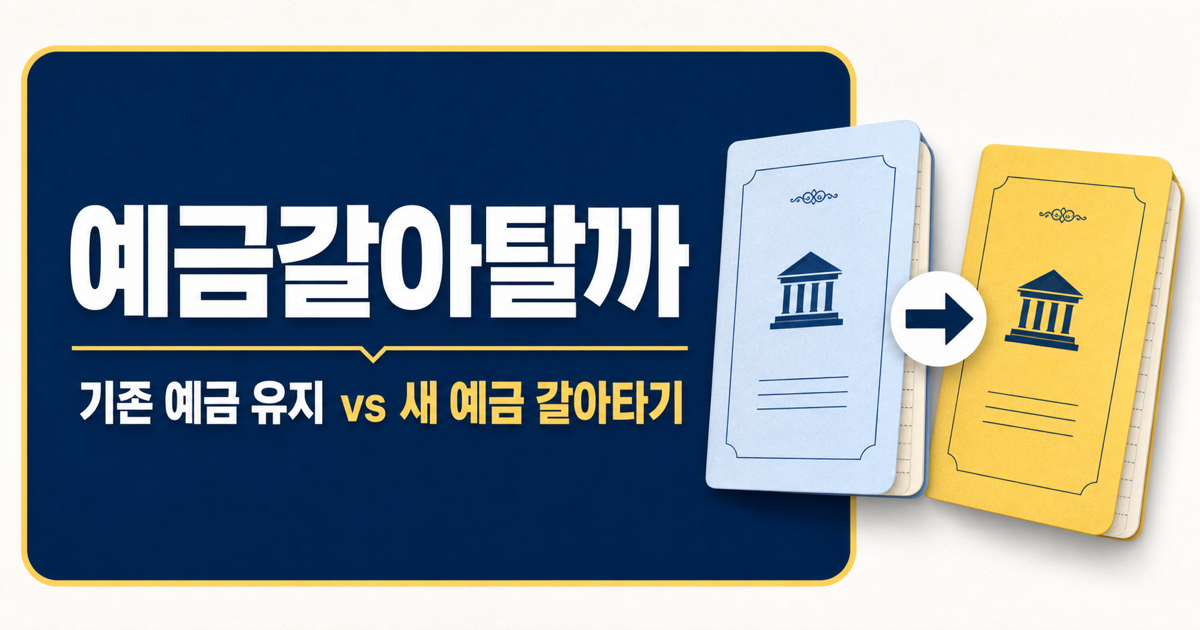
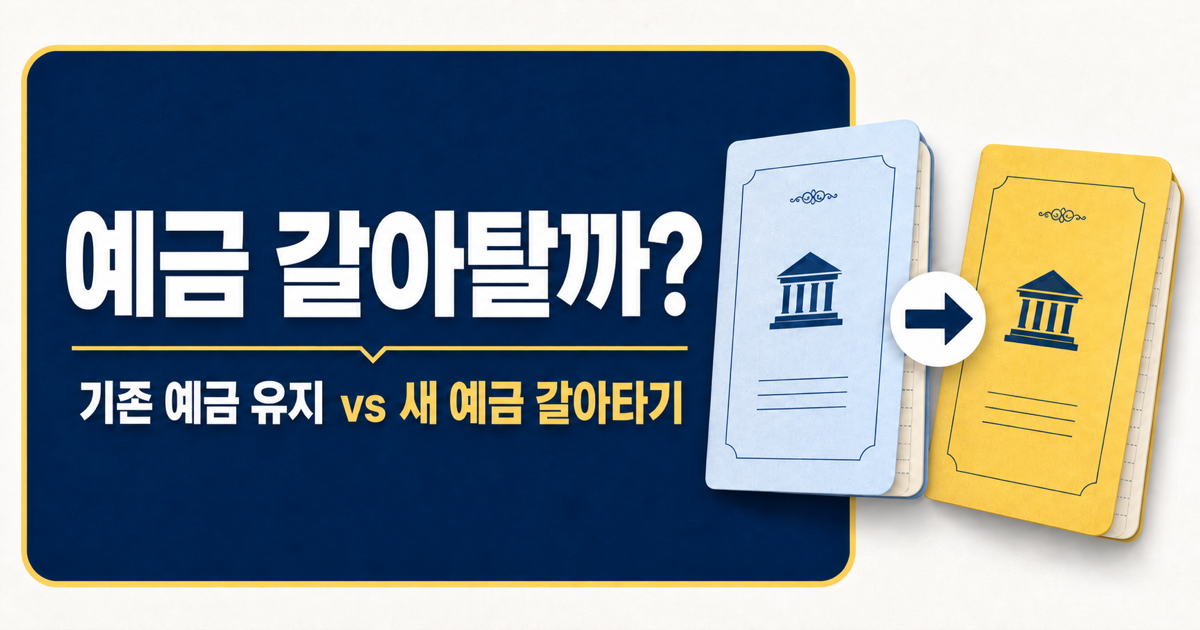
feat: 브랜드와 공통 레이아웃 개편
- 앱 이름을 '예금 갈아탈까?'로 통일
- 공통 헤더와 Pokugi Studio 푸터 추가
- pokugi.com으로 이동하는 다른 제품 보기 버튼 추가
- SEO 메타데이터와 웹 앱 매니페스트 수정
- 공유용 OG 이미지와 README 업데이트

diff --git a/public/index.html b/public/index.html
@@ -8,7 +8,7 @@
     />
     <meta name="theme-color" content="#15365f" />
     <meta name="color-scheme" content="light" />
-    <meta name="application-name" content="예금갈아탈까" />
+    <meta name="application-name" content="예금 갈아탈까?" />
     <meta
       name="description"
       content="기존 예금을 유지할지 새 예금으로 갈아탈지 중도해지 이자와 세금을 반영해 예상 수익을 비교하는 무료 계산기입니다."
@@ -33,10 +33,10 @@
 
     <meta property="og:locale" content="ko_KR" />
     <meta property="og:type" content="website" />
-    <meta property="og:site_name" content="예금갈아탈까" />
+    <meta property="og:site_name" content="예금 갈아탈까?" />
     <meta
       property="og:title"
-      content="예금갈아탈까 | 예금 갈아타기 계산기"
+      content="예금 갈아탈까? | 예금 갈아타기 계산기"
     />
     <meta
       property="og:description"
@@ -51,13 +51,13 @@
     <meta property="og:image:height" content="630" />
     <meta
       property="og:image:alt"
-      content="예금갈아탈까 - 기존 예금 유지와 새 예금 갈아타기 비교"
+      content="예금 갈아탈까? - 기존 예금 유지와 새 예금 갈아타기 비교"
     />
 
     <meta name="twitter:card" content="summary_large_image" />
     <meta
       name="twitter:title"
-      content="예금갈아탈까 | 예금 갈아타기 계산기"
+      content="예금 갈아탈까? | 예금 갈아타기 계산기"
     />
     <meta
       name="twitter:description"
@@ -69,7 +69,7 @@
     />
     <meta
       name="twitter:image:alt"
-      content="예금갈아탈까 - 기존 예금 유지와 새 예금 갈아타기 비교"
+      content="예금 갈아탈까? - 기존 예금 유지와 새 예금 갈아타기 비교"
     />
     <meta
       name="google-site-verification"
@@ -79,12 +79,12 @@
       name="google-site-verification"
       content="gEf45W7M1tFkNTUbJJlUqm9CkewWq0hNtFaTr6Kewo0"
     />
-    <title>예금갈아탈까 | 예금 갈아타기 계산기</title>
+    <title>예금 갈아탈까? | 예금 갈아타기 계산기</title>
     <script type="application/ld+json">
       {
         "@context": "https://schema.org",
         "@type": "WebApplication",
-        "name": "예금갈아탈까",
+        "name": "예금 갈아탈까?",
         "url": "https://deposit.pokugi.com/",
         "description": "기존 예금 유지와 새 예금 갈아타기의 예상 세후 이자를 비교하는 계산기",
         "applicationCategory": "FinanceApplication",
@@ -105,14 +105,9 @@
     ></script>
   </head>
   <body>
-    <noscript>예금갈아탈까를 이용하려면 자바스크립트를 켜주세요.</noscript>
-    <ins
-      class="kakao_ad_area"
-      style="display: none"
-      data-ad-unit="DAN-Jxpxpi4KKWCZPd5Y"
-      data-ad-width="320"
-      data-ad-height="100"
-    ></ins>
+    <noscript>
+      예금 갈아탈까? 서비스를 이용하려면 자바스크립트를 켜주세요.
+    </noscript>
     <div id="root"></div>
     <script
       src="https://t1.daumcdn.net/kas/static/ba.min.js"

diff --git a/src/App.css b/src/App.css
@@ -35,6 +35,71 @@ button {
   cursor: pointer;
 }
 
+.site-header {
+  border-bottom: 2px solid #bdc8d3;
+  background: var(--white);
+}
+
+.site-header__inner {
+  display: flex;
+  width: min(960px, calc(100% - 32px));
+  min-height: 76px;
+  margin: 0 auto;
+  align-items: center;
+  justify-content: space-between;
+  gap: 20px;
+}
+
+.site-header__brand {
+  color: var(--navy-dark);
+  font-size: 1.35rem;
+  font-weight: 900;
+  letter-spacing: -0.035em;
+  text-decoration: none;
+}
+
+.site-header__brand:hover {
+  color: var(--navy);
+}
+
+.site-header__brand:focus-visible {
+  border-radius: 6px;
+  outline: 3px solid var(--yellow-dark);
+  outline-offset: 5px;
+}
+
+.site-header__products {
+  padding: 10px 16px;
+  border: 2px solid var(--navy);
+  border-radius: 9px;
+  background: var(--navy);
+  color: var(--white);
+  font-size: 0.9rem;
+  font-weight: 800;
+  text-decoration: none;
+  transition:
+    background 0.15s ease,
+    border-color 0.15s ease;
+}
+
+.site-header__products:hover {
+  border-color: var(--navy-dark);
+  background: var(--navy-dark);
+}
+
+.site-header__products:focus-visible {
+  outline: 3px solid var(--yellow-dark);
+  outline-offset: 3px;
+}
+
+.ad-banner {
+  display: flex;
+  width: 100%;
+  justify-content: center;
+  overflow: hidden;
+  padding: 16px 0;
+}
+
 .page-shell {
   width: min(960px, calc(100% - 32px));
   margin: 0 auto;
@@ -494,9 +559,38 @@ button {
   font-weight: 800;
 }
 
+.site-footer {
+  width: min(100% - 32px, 960px);
+  margin: 0 auto;
+  padding: 28px 0 36px;
+  border-top: 2px solid #bdc8d3;
+  color: var(--muted);
+  text-align: center;
+  font-size: 0.95rem;
+  line-height: 1.7;
+}
+
+.site-footer p {
+  margin: 0;
+}
+
 @media (max-width: 760px) {
   html {
     font-size: 17px;
+  }
+
+  .site-header__inner {
+    width: min(100% - 20px, 960px);
+    min-height: 68px;
+  }
+
+  .site-header__brand {
+    font-size: 1.25rem;
+  }
+
+  .site-header__products {
+    padding: 9px 12px;
+    font-size: 0.86rem;
   }
 
   .page-shell {
@@ -567,5 +661,10 @@ button {
 
   .result-row {
     align-items: flex-start;
+  }
+
+  .site-footer {
+    width: min(100% - 20px, 960px);
+    padding: 24px 10px 30px;
   }
 }

diff --git a/src/App.js b/src/App.js
@@ -1,6 +1,7 @@
 import { Analytics } from "@vercel/analytics/react";
 import {
   BrowserRouter,
+  Link,
   Route,
   Routes,
   useLocation,
@@ -23,10 +24,34 @@ const removeSharedInputs = (event) => ({
 function App() {
   return (
     <BrowserRouter>
+      <header className="site-header">
+        <div className="site-header__inner">
+          <Link className="site-header__brand" to="/">
+            예금 갈아탈까?
+          </Link>
+          <a className="site-header__products" href="https://pokugi.com">
+            다른 제품 보러가기
+          </a>
+        </div>
+      </header>
+      <aside aria-label="광고" className="ad-banner">
+        <ins
+          className="kakao_ad_area"
+          data-ad-height="100"
+          data-ad-unit="DAN-Jxpxpi4KKWCZPd5Y"
+          data-ad-width="320"
+          style={{ display: "none" }}
+        />
+      </aside>
       <Routes>
         <Route path="/" element={<Home />} />
         <Route path="/result" element={<Result />} />
       </Routes>
+      <footer className="site-footer">
+        <p className="site-footer__copyright">
+          © 2026 Pokugi Studio. All rights reserved.
+        </p>
+      </footer>
       <Analytics beforeSend={removeSharedInputs} />
     </BrowserRouter>
   );

diff --git a/src/App.test.js b/src/App.test.js
@@ -14,13 +14,27 @@ beforeEach(() => {
 });
 
 test("예금 비교 입력 화면을 표시한다", () => {
-  render(<App />);
+  const { container } = render(<App />);
 
+  const homeLink = screen.getByRole("link", { name: "예금 갈아탈까?" });
+  const adBanner = screen.getByLabelText("광고");
+  const calculateButton = screen.getByRole("button", {
+    name: "계산 결과 크게 보기",
+  });
+
+  expect(homeLink).toBeInTheDocument();
+  expect(
+    container.querySelector(".site-header").nextElementSibling
+  ).toBe(adBanner);
+  expect(
+    screen.getByRole("link", { name: "다른 제품 보러가기" })
+  ).toHaveAttribute("href", "https://pokugi.com");
   expect(
     screen.getByRole("heading", { name: "예금, 갈아타는 게 이득일까요?" })
   ).toBeInTheDocument();
+  expect(calculateButton).toBeInTheDocument();
   expect(
-    screen.getByRole("button", { name: "계산 결과 크게 보기" })
+    screen.getByText("© 2026 Pokugi Studio. All rights reserved.")
   ).toBeInTheDocument();
 });
 

diff --git a/README.md b/README.md
@@ -1,6 +1,6 @@
 # deposit-switch
 
-**예금갈아탈까**는 기존 예금을 만기까지 유지할 때와 중도해지 후 새
+**예금 갈아탈까?**는 기존 예금을 만기까지 유지할 때와 중도해지 후 새
 예금으로 갈아탈 때의 예상 세후 이자를 비교하는 계산기입니다.
 
 - 서비스 주소: [https://deposit-switch.vercel.app/](https://https://deposit-switch.vercel.app/)
